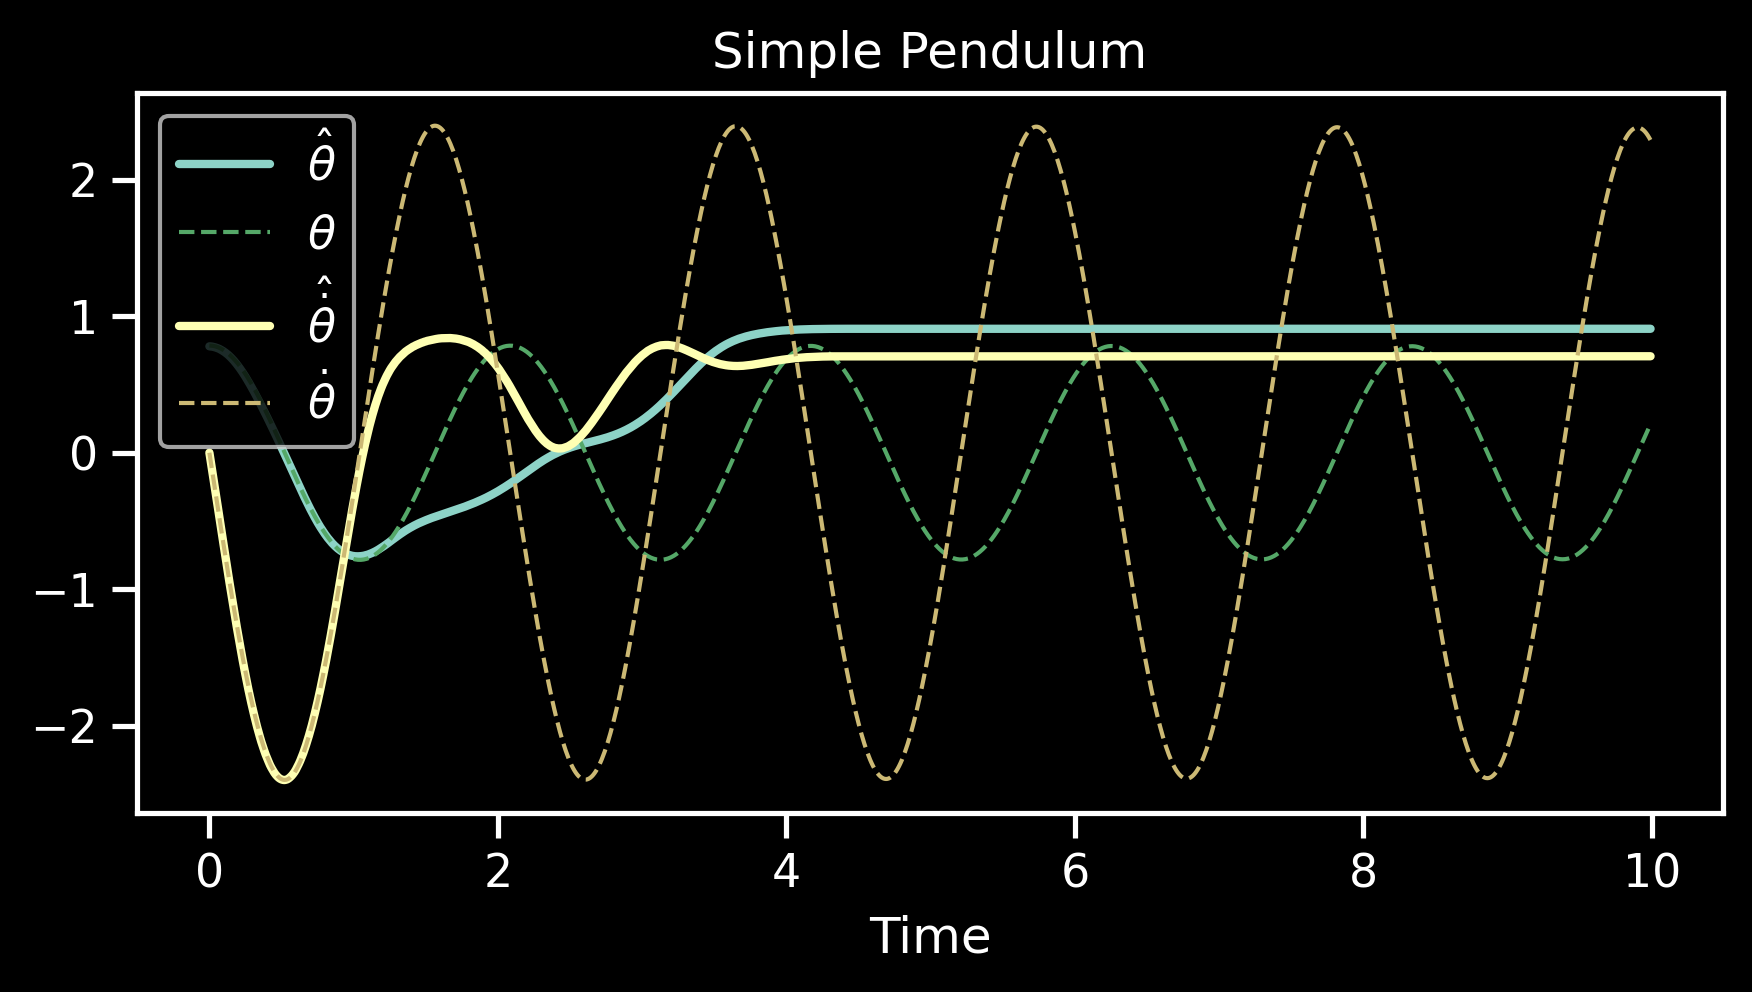
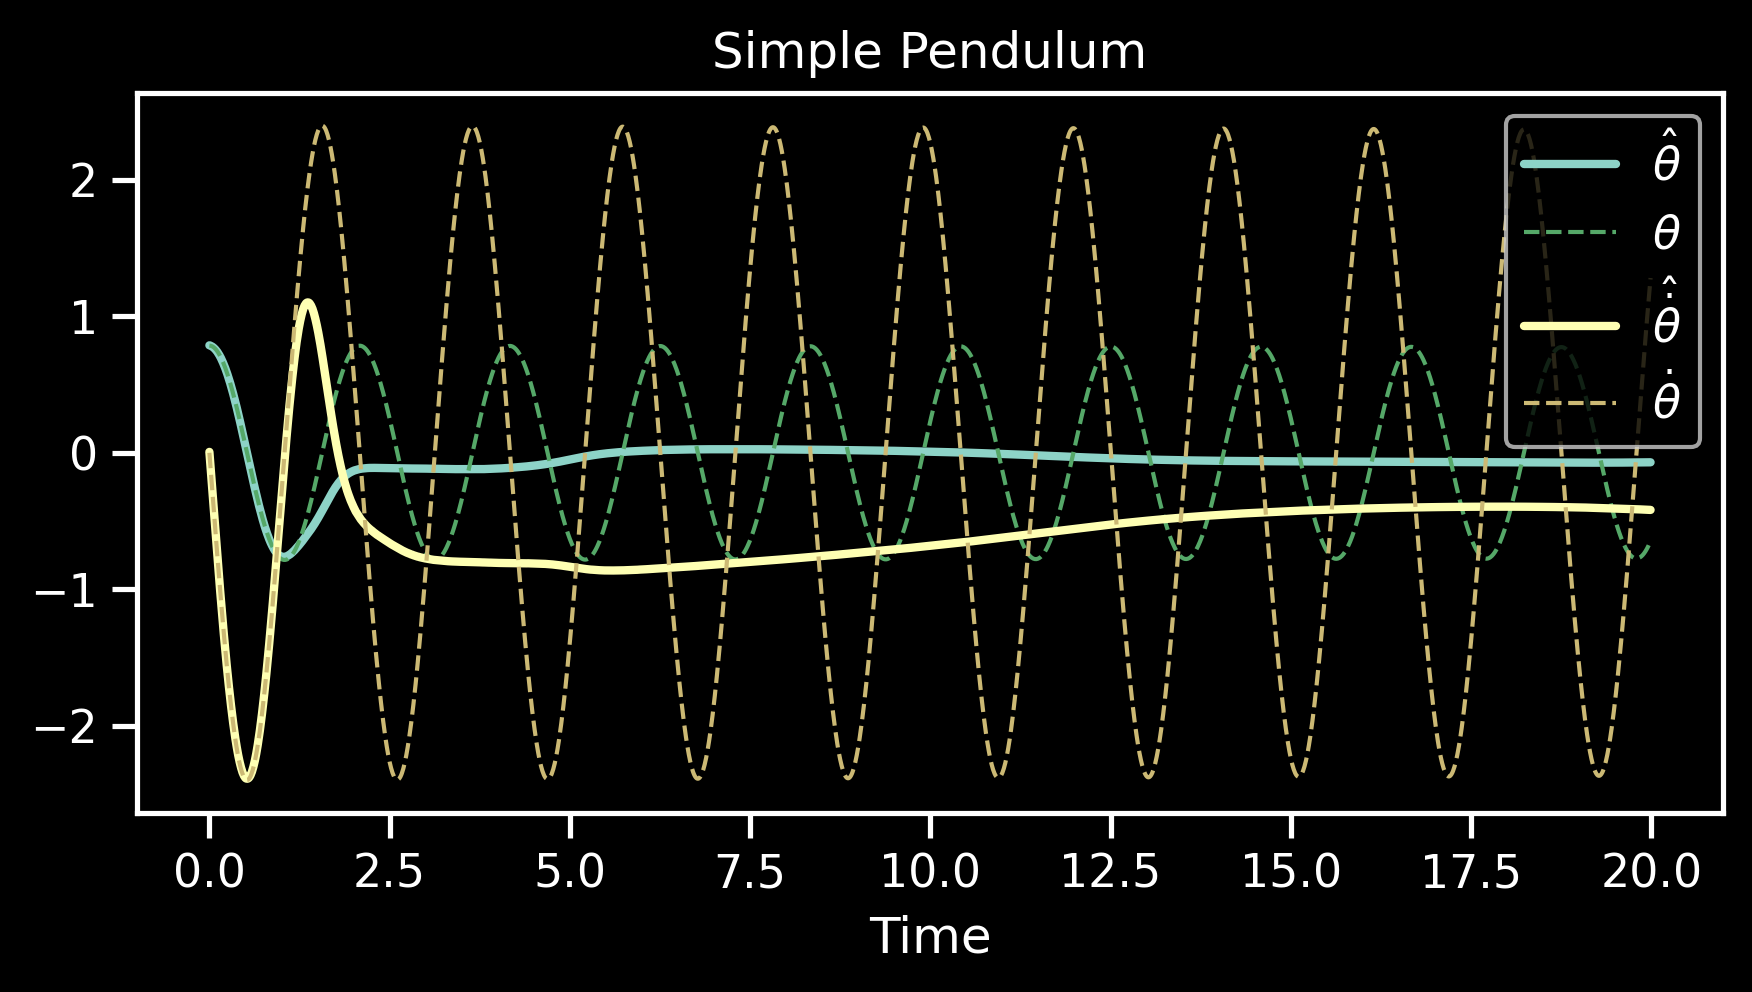
Attempt to concatenate once more

diff --git a/examples/pendulums/02_pendulums_parajax.py b/examples/pendulums/02_pendulums_parajax.py
@@ -94,7 +94,6 @@ print("Datasets sizes:", X1.shape, X2.shape)
 
 # %%
 
-
 sp_to_plot = X1_raw[:plt_hor]
 ax = sbplot(sp_to_plot[:, -1], sp_to_plot[:, 0], "--", x_label='Time', label=r'$\theta$', title='Simple Pendulum')
 ax = sbplot(sp_to_plot[:, -1], sp_to_plot[:, 1], "--", x_label='Time', label=r'$\dot \theta$', ax=ax)
@@ -125,59 +124,84 @@ class Encoder(eqx.Module):
             x = layer(x)
         return x
 
-# class Processor(eqx.Module):
-#     layers1: list
-#     layers2: list
-#     alpha: jnp.ndarray
 
-#     def __init__(self, in_out_size=2, key=None):
-#         keys = get_new_key(key, num=3)
-#         self.layers1 = [eqx.nn.Linear(in_out_size+1, 50, key=keys[0]), jax.nn.tanh,
-#                         eqx.nn.Linear(50, 50, key=keys[1]), jax.nn.tanh,
-#                         eqx.nn.Linear(50, in_out_size, key=keys[2])]
-
-#         self.layers2 = [eqx.nn.Linear(in_out_size+1, 50, key=keys[2]), jax.nn.tanh,
-#                         eqx.nn.Linear(50, 50, key=key), jax.nn.tanh,
-#                         eqx.nn.Linear(50, in_out_size, key=keys[0])]
-
-#         self.alpha = jax.random.uniform(keys[2], (2,))
-
-#     def __call__(self, x, t):
-#         y1 = jnp.concatenate([jnp.broadcast_to(t, (1,)), x], axis=0)
-#         for layer in self.layers1:
-#             y1 = layer(y1)
-
-#         y2 = jnp.concatenate([jnp.broadcast_to(t, (1,)), x], axis=0)
-#         for layer in self.layers2:
-#             y2 = layer(y2)
-
-#         return self.alpha[0]*y1 + self.alpha[1]*y2
-
-class Processor(eqx.Module):
-    layers: list
-    # alpha: jnp.ndarray
-    # beta: jnp.ndarray
-    matrix: jnp.ndarray
+class Operator(eqx.Module):
+    # layers: list
 
     def __init__(self, in_out_size=2, key=None):
         keys = get_new_key(key, num=3)
-        self.layers = [eqx.nn.Linear(in_out_size+1, 50, key=keys[0]), jax.nn.tanh,
+        # self.layers = [eqx.nn.Linear(in_out_size*2, 50, key=keys[0]), jax.nn.tanh,
+        #                 eqx.nn.Linear(50, 50, key=keys[1]), jax.nn.tanh,
+        #                 eqx.nn.Linear(50, in_out_size, key=keys[2])]
+
+    def __call__(self, x1, x2):
+        y = jnp.concatenate([x1, x2], axis=0)
+        # for layer in self.layers:
+        #     y = layer(y)
+        return y
+        # return x1
+
+
+
+class Processor(eqx.Module):
+    layers1: list
+    layers2: list
+    alpha: jnp.ndarray
+
+    def __init__(self, in_out_size=2, key=None):
+        keys = get_new_key(key, num=3)
+        self.layers1 = [eqx.nn.Linear(in_out_size+1, 50, key=keys[0]), jax.nn.tanh,
                         eqx.nn.Linear(50, 50, key=keys[1]), jax.nn.tanh,
                         eqx.nn.Linear(50, in_out_size, key=keys[2])]
 
-        # self.alpha = jax.random.uniform(keys[2], (1,))
-        # self.beta = jax.random.uniform(keys[3], (1,))
-        self.matrix = jax.random.normal(keys[2], (4, 4))
+        self.layers2 = [eqx.nn.Linear(in_out_size+1, 50, key=keys[2]), jax.nn.tanh,
+                        eqx.nn.Linear(50, 50, key=key), jax.nn.tanh,
+                        eqx.nn.Linear(50, in_out_size, key=keys[0])]
+
+        self.alpha = jax.random.uniform(keys[2], (2,))
 
     def __call__(self, x, t):
-        # matrix = jnp.array([[0, 1, 0, 0], [self.alpha[0], 0, 0, 0],
-        #                     [0, 0, 0, 1], [0, 0, self.beta[0], 0]])
+        y1 = jnp.concatenate([jnp.broadcast_to(t, (1,)), x], axis=0)
+        for layer in self.layers1:
+            y1 = layer(y1)
 
-        y = jnp.concatenate([jnp.broadcast_to(t, (1,)), x], axis=0)
-        for layer in self.layers:
-            y = layer(y)
+        y2 = jnp.concatenate([jnp.broadcast_to(t, (1,)), x], axis=0)
+        for layer in self.layers2:
+            y2 = layer(y2)
 
-        return self.matrix@x + y
+        # return self.alpha[0]*y1 + self.alpha[1]*y2
+
+        alpha_ = jax.nn.softmax(self.alpha)
+        return alpha_[0]*y1 + alpha_[1]*y2
+
+
+
+# class Processor(eqx.Module):
+#     layers: list
+#     # alpha: jnp.ndarray
+#     # beta: jnp.ndarray
+#     matrix: jnp.ndarray
+
+#     def __init__(self, in_out_size=2, key=None):
+#         keys = get_new_key(key, num=3)
+#         self.layers = [eqx.nn.Linear(in_out_size+1, 50, key=keys[0]), jax.nn.tanh,
+#                         eqx.nn.Linear(50, 50, key=keys[1]), jax.nn.tanh,
+#                         eqx.nn.Linear(50, in_out_size, key=keys[2])]
+
+#         # self.alpha = jax.random.uniform(keys[2], (1,))
+#         # self.beta = jax.random.uniform(keys[3], (1,))
+#         self.matrix = jax.random.normal(keys[2], (in_out_size, in_out_size))
+
+#     def __call__(self, x, t):
+#         # matrix = jnp.array([[0, 1, 0, 0], [self.alpha[0], 0, 0, 0],
+#         #                     [0, 0, 0, 1], [0, 0, self.beta[0], 0]])
+
+#         y = jnp.concatenate([jnp.broadcast_to(t, (1,)), x], axis=0)
+#         for layer in self.layers:
+#             y = layer(y)
+
+#         return self.matrix@x + y
+#         # return self.matrix@x
 
 
 
@@ -196,19 +220,20 @@ class Decoder(eqx.Module):
             z = layer(z)
         return z
 
-keys = get_new_key(SEED, num=5)
+keys = get_new_key(SEED, num=6)
 
 d1 = X1.shape[-1] - 1
 E1 = Encoder(in_size=d1, out_size=latent_size, key=keys[0])
-D1 = Decoder(in_size=latent_size+d1+1, out_size=d1, key=keys[1])
+D1 = Decoder(in_size=2*latent_size+d1+1, out_size=d1, key=keys[1])
 
 d2 = X2.shape[-1] - 1
 E2 = Encoder(in_size=d2, out_size=latent_size, key=keys[2])
-D2 = Decoder(in_size=latent_size+d2+1, out_size=d2, key=keys[3])
+D2 = Decoder(in_size=2*latent_size+d2+1, out_size=d2, key=keys[3])
 
-P = Processor(in_out_size=latent_size*1, key=keys[4])
+P = Processor(in_out_size=latent_size*2, key=keys[4])
+O = Operator(in_out_size=latent_size, key=keys[5])
 
-model = (E1, E2, P, D1, D2)
+model = (E1, E2, P, D1, D2, O)
 params, static = eqx.partition(model, eqx.is_array)
 
 # %%
@@ -223,14 +248,20 @@ def loss_fn(params, static, batch):
     X1, X2 = batch
     model = eqx.combine(params, static)
 
-    E1, E2, P, D1, D2 = model       ## TODO vmap the model directly
+    E1, E2, P, D1, D2, O = model       ## TODO vmap the model directly
 
     E1_batched, E2_batched = jax.vmap(E1), jax.vmap(E2)
     latent1 = E1_batched(X1[:, 0, :-1])
     latent2 = E2_batched(X2[:, 0, :-1])
 
     # latent = jnp.concatenate([latent1, latent2], axis=-1)       ## TODO only latent1 used
-    latent = latent1 * latent2
+    O_batched = jax.vmap(O, in_axes=(0, 0))
+    # latentM = latent1 * latent2
+    # latentP = latent1 + latent2
+    # latent = O_batched(latentM, latentP)
+
+    latent = O_batched(latent1, latent2)
+
     t = X1[:, :, -1]
     # print("This is t:", t.shape, t)
 
@@ -268,12 +299,12 @@ nb_examples = X1.shape[0]
 
 total_steps = nb_epochs*int(np.ceil(nb_examples//batch_size))
 
-sched = optax.exponential_decay(init_lr, total_steps, decay_rate)
+# sched = optax.exponential_decay(init_lr, total_steps, decay_rate)
 # sched = optax.linear_schedule(init_lr, 0, total_steps, 0.25)
-# sched = optax.piecewise_constant_schedule(init_value=init_lr,
-#                                             boundaries_and_scales={int(total_steps*0.25):0.1, 
-#                                                                     int(total_steps*0.5):0.1,
-#                                                                     int(total_steps*0.75):0.1})
+sched = optax.piecewise_constant_schedule(init_value=init_lr,
+                                            boundaries_and_scales={int(total_steps*0.25):0.5, 
+                                                                    int(total_steps*0.5):0.2,
+                                                                    int(total_steps*0.75):0.5})
 
 opt = optax.adam(sched)
 opt_state = opt.init(params)
@@ -314,13 +345,18 @@ plt.savefig("data/loss.png", dpi=300, bbox_inches='tight')
 # %%
 
 def test_model(model, X1, X2):
-    E1, E2, P, D1, D2 = model
+    E1, E2, P, D1, D2, O = model
 
     latent1 = E1(X1[0, :-1])
     latent2 = E2(X2[0, :-1])
 
     # latent = jnp.concatenate([latent1, latent2], axis=-1)
-    latent = latent1 * latent2
+    # latentM = latent1 * latent2
+    # latentP = latent1 + latent2
+    # latent = O(latentM, latentP)
+
+    latent = O(latent1, latent2)
+
     t = X1[:, -1]
 
     P_params, P_static = eqx.partition(P, eqx.is_array)
@@ -341,6 +377,7 @@ def test_model(model, X1, X2):
 X1_hat, X2_hat = test_model(model, X1_raw, X2_raw)
 
 plt_hor = plt_hor*1
+plt_hor = 2000
 
 times = X1_raw[:plt_hor, -1]
 
@@ -377,7 +414,6 @@ print(f"  - Simple Pendulum: {RE1:.5f}")
 print(f"  - Inverted Pendulum: {RE2:.5f}")
 
 
-
 #%% 
 eqx.tree_serialise_leaves("data/model_005.eqx", model)
 # model = eqx.tree_deserialise_leaves("data/model001.eqx", model)
@@ -401,7 +437,7 @@ eqx.tree_serialise_leaves("data/model_005.eqx", model)
 
 # %%
 def test_processor(model, X_latent, t):
-    _, _, P, _, _ = model
+    _, _, P, _, _, _ = model
 
     P_params, P_static = eqx.partition(P, eqx.is_array)
     latent_final = integrator(P_params, P_static, X_latent, t, 1.4e-8, 1.4e-8, jnp.inf, jnp.inf, 2, "checkpointed")
@@ -409,13 +445,14 @@ def test_processor(model, X_latent, t):
     return latent_final
 
 # X_latent = jnp.array([0.0, 0.1, 0.0, 0.1])
-X_latent = jax.random.uniform(get_new_key(SEED), (4,))
-test_t = jnp.linspace(0, 10, 1001)
+X_latent = jax.random.uniform(get_new_key(SEED), (latent_size*2,))
+test_t = jnp.linspace(0, 1, 1001)
 
 X_latent_final = test_processor(model, X_latent, test_t)
 labels = [str(i) for i in range(X_latent_final.shape[-1])]
 
 ax = sbplot(test_t, X_latent_final[:, :], x_label='Time', label=labels, title='Latent dynamics');
 plt.savefig("data/latent_pendulum.png", dpi=300, bbox_inches='tight')
+
 
 # %%
